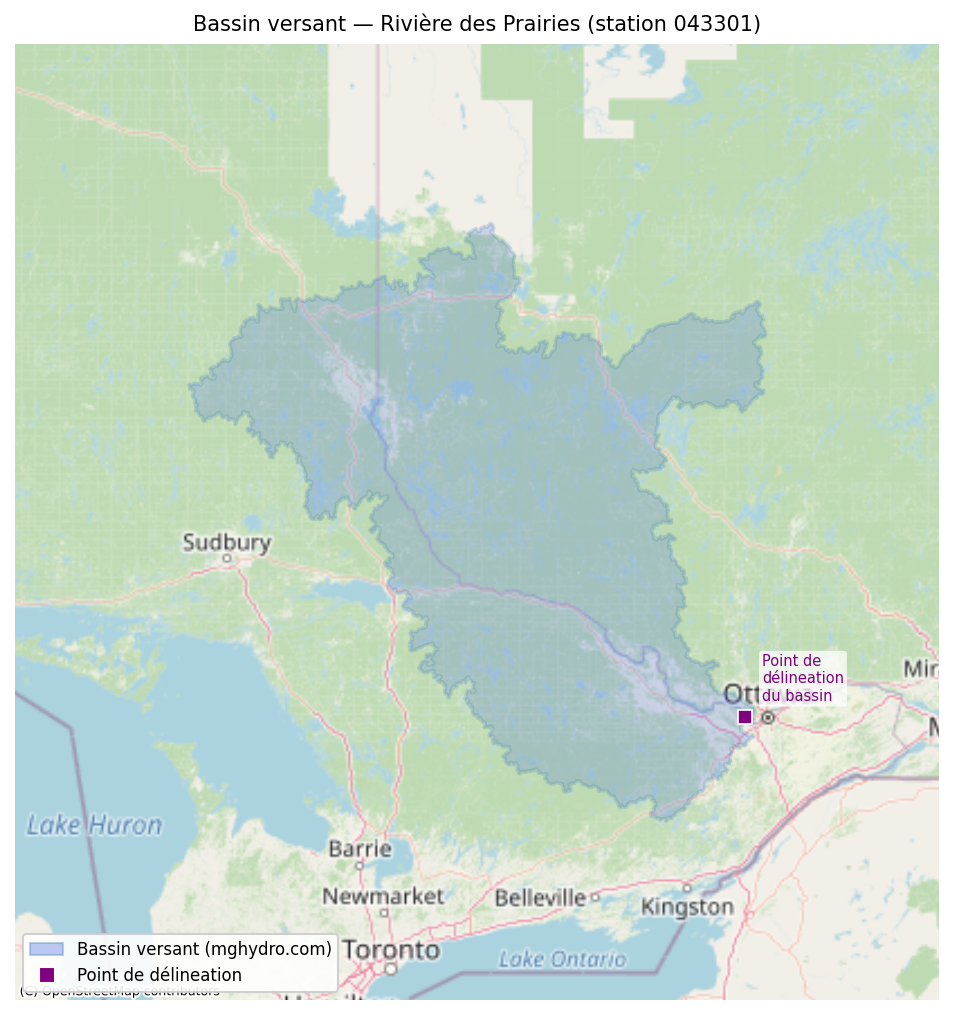
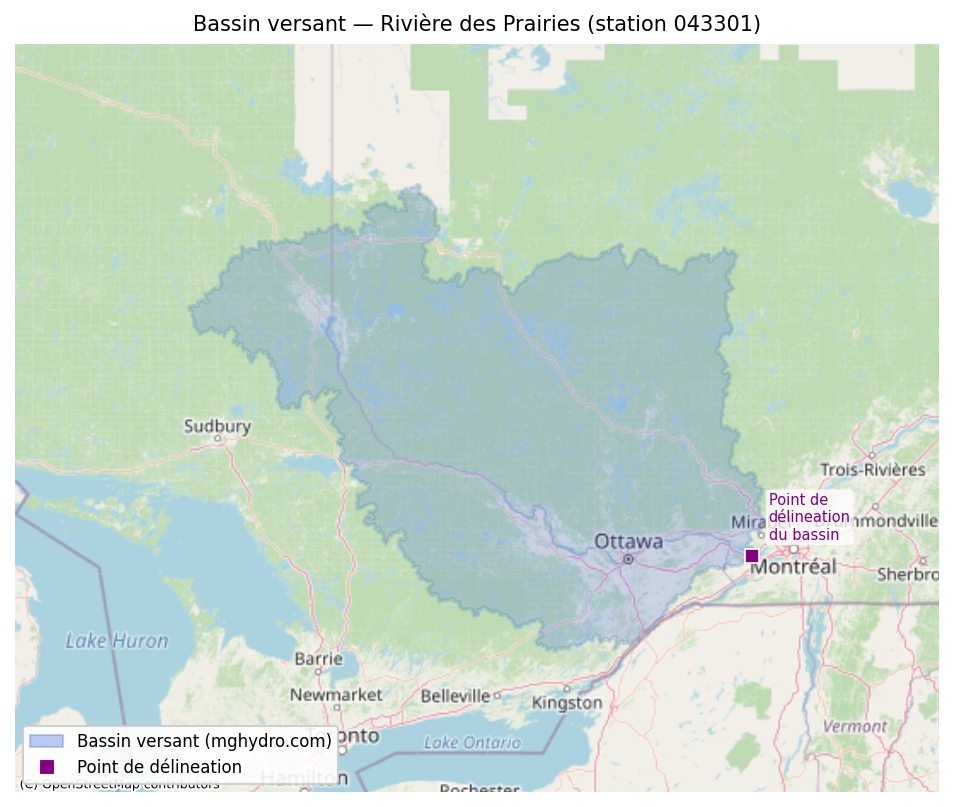
feat: update watershed to mghydro.com ID M72047806 (148 202 km²)
Replace the old partial watershed boundary with the full watershed
(wid=M72047806), which extends ~130 km further east to -73.94° and
correctly covers the complete drainage area down to station 043301.

- load_climate.py: update BASIN_URL to direct GeoJSON download endpoint;
  document watershed ID, area, and report URL in module docstring
- Rebuild climate cache: 57 ERA5 grid points (50 km spacing) now include
  the Ottawa River corridor near the monitoring stations
- load_forecast.py picks up the new grid automatically (shared boundary)
- Regenerate docs/basin_map.png and docs/basin_stations.png
- Update README.md and README_EN.md data source table with watershed ID and area

diff --git a/src/load_climate.py b/src/load_climate.py
@@ -8,6 +8,11 @@ Approach:
   4. Average all points to produce basin-mean daily values.
   5. Cache result to data/climate_daily.parquet.
 
+Watershed:
+  mghydro.com watershed ID M72047806, area ≈ 148 202 km².
+  Direct download: https://mghydro.com/app/download_watershed?format=json&wid=M72047806
+  Full report:     https://mghydro.com/app/report?lat=45.454&lng=-74.106&precision=low&simplify=true
+
 Variables (daily):
   temperature_2m_mean   °C    — basin-mean air temperature
   precipitation_sum     mm    — total water input (rain + snow water equiv.)
@@ -26,8 +31,8 @@ from shapely.geometry import shape, Point
 DATA_DIR = Path(__file__).parent.parent / "data"
 
 BASIN_URL = (
-    "https://mghydro.com/app/watershed_api"
-    "?lat=45.426&lng=-75.926&precision=low&simplify=true"
+    "https://mghydro.com/app/download_watershed"
+    "?format=json&wid=M72047806"
 )
 
 OPEN_METEO_URL = "https://archive-api.open-meteo.com/v1/archive"

diff --git a/scripts/generate_basin_map.py b/scripts/generate_basin_map.py
@@ -87,8 +87,8 @@ def main():
     ax.add_collection(pc)
     add_basemap(ax, zoom=6)
 
-    # Delineation point
-    ox, oy = to_wm(-75.926, 45.426)
+    # Delineation point (mghydro.com outlet, wid=M72047806)
+    ox, oy = to_wm(-74.106, 45.454)
     ax.plot(ox, oy, "s", ms=7, color="purple", zorder=5,
             markeredgecolor="white", markeredgewidth=0.8)
     ax.annotate("Point de\ndélineation\ndu bassin", (ox, oy),

diff --git a/README.md b/README.md
@@ -57,7 +57,7 @@ Le modèle déployé est ré-entraîné sur l'ensemble complet des données (197
 | [Open-Meteo ERA5](https://open-meteo.com) | Température, précipitations, chutes de neige, pluie (observé) | 1940–présent |
 | [Open-Meteo Forecast](https://open-meteo.com) | Prévision météo sur 5 jours (température, précipitations, pluie, neige) | temps réel |
 | [Crues Grand Montréal](https://www.cruesgrandmontreal.ca) | Niveau (m) + débit (m³/s) — stations amont 39_RDP09, 01_RDP11, 11_LDM01 | temps réel + historique glissant |
-| [mghydro.com](https://mghydro.com) | Polygone du bassin versant (GeoJSON) | statique |
+| [mghydro.com](https://mghydro.com/app/report?lat=45.454&lng=-74.106&precision=low&simplify=true) | Polygone du bassin versant (GeoJSON) — ID M72047806, ~148 202 km² | statique |
 
 ### Stations amont Crues Grand Montréal
 

diff --git a/README_EN.md b/README_EN.md
@@ -41,7 +41,7 @@ The deployed model is retrained on the full dataset (1978-01-01 → 2026-03-03).
 | [Open-Meteo ERA5](https://open-meteo.com) | Temperature, precipitation, snowfall, rain (observed) | 1940–present |
 | [Open-Meteo Forecast](https://open-meteo.com) | 5-day weather forecast (temperature, precipitation, rain, snow) | real-time |
 | [Crues Grand Montréal](https://www.cruesgrandmontreal.ca) | Level (m) + flow (m³/s) — upstream stations 39_RDP09, 01_RDP11, 11_LDM01 | real-time + rolling history |
-| [mghydro.com](https://mghydro.com) | Basin boundary polygon (GeoJSON) | static |
+| [mghydro.com](https://mghydro.com/app/report?lat=45.454&lng=-74.106&precision=low&simplify=true) | Basin boundary polygon (GeoJSON) — ID M72047806, ~148,202 km² | static |
 
 ### Crues Grand Montréal upstream stations
 
